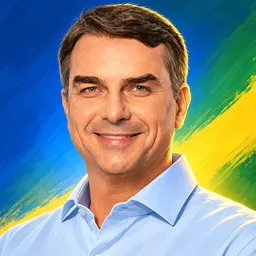
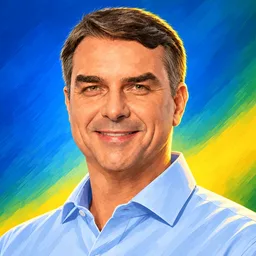
feat(retratos): nova imagem do Flávio

diff --git a/components/painel/festejo.tsx b/components/painel/festejo.tsx
@@ -1,7 +1,7 @@
 'use client';
 import { useEffect, useRef, useState } from 'react';
 import type { Cand } from '@/lib/types';
-import { int, pct } from './format';
+import { int, pct, retrato } from './format';
 import { fanfare } from './efeitos';
 
 const COLORS = ['#009c3b', '#ffdf00', '#ffffff', '#3b82f6', '#ffd43b'];
@@ -138,7 +138,7 @@ export function Festejo({ winner, other, sound, onClose, onShare }: { winner: Ca
       <div className="festejo-conteudo">
         <div className="festejo-retrato">
           {/* eslint-disable-next-line @next/next/no-img-element */}
-          <img src="/candidatos/flavio-720.webp" alt="Flávio Bolsonaro" className="festejo-foto" width={300} height={300} />
+          <img src={retrato('22', 720)!} alt="Flávio Bolsonaro" className="festejo-foto" width={300} height={300} />
           {/* eslint-disable-next-line @next/next/no-img-element */}
           <img src="/emoji/humor-10.png" alt="Boneco: Giga Chad" className="festejo-boneco" width={110} height={110} />
         </div>

diff --git a/components/painel/format.ts b/components/painel/format.ts
@@ -62,4 +62,5 @@ export const shortName = (c: { number: string; name: string }, cargo: number) =>
 
 /** Retratos dos dois finalistas, pelo número (um finalista substituído pelo TSE fica só com o número). */
 const RETRATOS: Record<string, string> = { '22': '/candidatos/flavio', '13': '/candidatos/lula' };
-export const retrato = (number: string, size: 256 | 720 = 256) => (RETRATOS[number] ? `${RETRATOS[number]}-${size}.webp` : null);
+// ?v=: muda quando uma foto é substituída, para os browsers não mostrarem a antiga guardada em cache.
+export const retrato = (number: string, size: 256 | 720 = 256) => (RETRATOS[number] ? `${RETRATOS[number]}-${size}.webp?v=2` : null);
